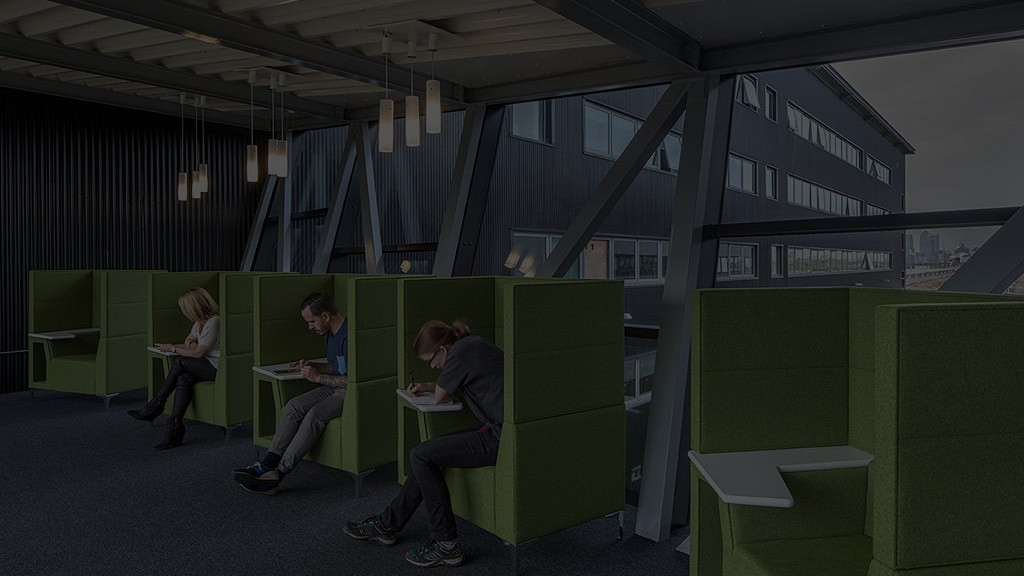
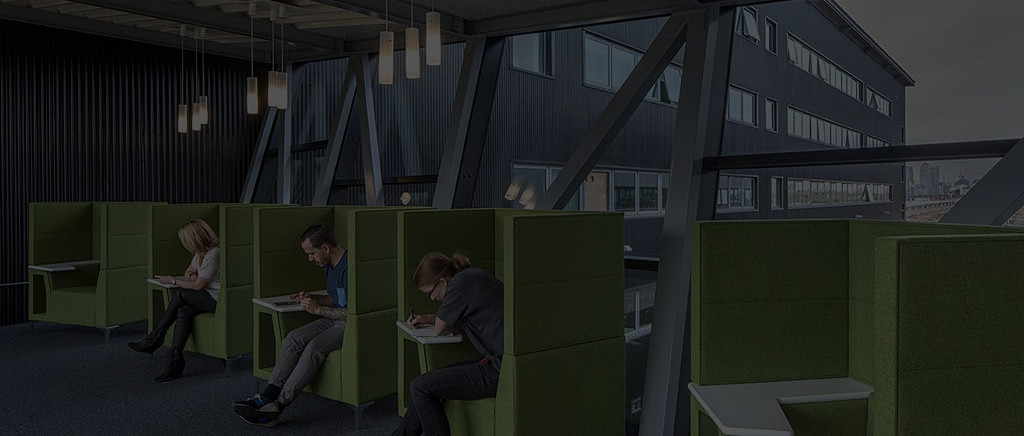
Change the size of the header area

diff --git a/_sass/_header.scss b/_sass/_header.scss
@@ -1,14 +1,13 @@
 header {
 	margin: 0;
 	padding: 0;
-	height: 48em;
 	background-image: url(/images/knowledge-dock.jpg);
 	background-repeat: no-repeat;
 	background-size: cover;
-	background-position: 0 -6em;
+	background-position: 0 0;
 	text-align: center;
 }
 
 header img {
-	margin: 2em 0 0 0;
+	margin: 2em 0 3em 0;
 }

diff --git a/_sass/_media.scss b/_sass/_media.scss
@@ -1,8 +1,8 @@
 @media (min-width: 34em) {}
 
 @media (min-width: 68em) {
-	header {
-		height: 42em;
+	header img {
+		margin: 2em 0 16em 0;
 	}
 
 	footer ul {
